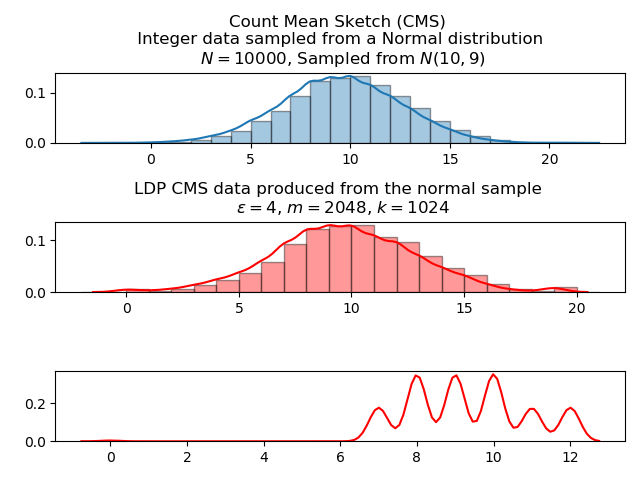
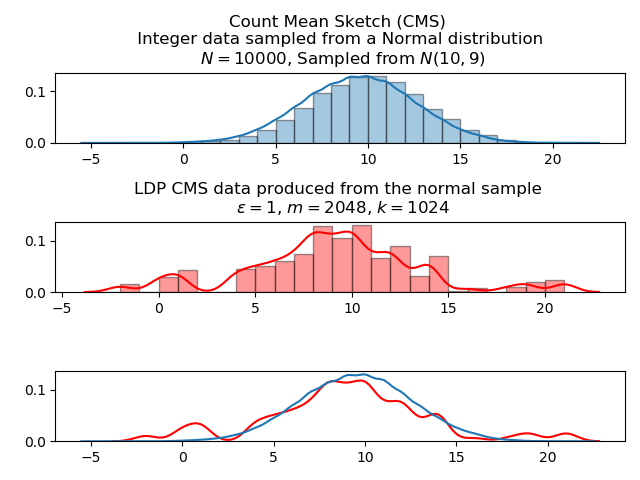
RAPPOR Normal Dist test
Doesn't perform very well :(

diff --git a/simulations/google/rappor_test.py b/simulations/google/rappor_test.py
@@ -2,22 +2,34 @@ from algorithms.google_ldp.rappor.server.RAPPORServer import RAPPORServer
 from collections import Counter
 
 import numpy as np
+import seaborn as sns
+import matplotlib.pyplot as plt
 
 # ----------------------------- Parameters for the simulation: -------------------------
 
-num_bloombits = 16
-num_hashes = 2
-num_of_cohorts = 64
-prob_p = 0.50
+num_bloombits = 128 # Max size is 256 bits
+num_hashes = 2 # Recommended to use 2 hashes
+num_of_cohorts =  32 # Max cohorts is 64
+
+# Guarantees slightly over epsilon = 1 for privacy
+prob_p = 0.5
 prob_q = 0.75
 prob_f = 0
 
-n = 1000000
-zipf_param = 1.3
+n = 100000
+
+# Normal Dist Parameters
+mu = 50
+sd = 10
+
 
 # ----------------------------- Generating Test Data for the Simulation: ----------------
 
-data = np.random.zipf(zipf_param, n).astype(int)
+data = np.random.normal(mu,sd,n).astype(int)
+bins = np.arange(start=min(data), stop = max(data) + 1)
+
+print(dict(Counter(data)))
+fig, axs = plt.subplots(2)
 
 # ---------------------------------------------------------------------------------------
 
@@ -28,9 +40,32 @@ for i in range(0, n):
     rappor_server.add_report(rappor_client.generate_report(str(data[i])))
 
 print("\n")
-print(Counter(data))
 
-hist = rappor_server.generate_freq_hist(["1", "3"])
+hist = rappor_server.generate_freq_hist(list(map(lambda x: str(x), bins)))
 print(hist)
 
-# ---------------------------------------------------------------------------------------
+ldp_data = np.zeros(len(bins))
+for row in hist.values.tolist():
+    ldp_data = np.append(ldp_data, [int(row[0])]*int(row[1]))
+
+print(ldp_data)
+
+# -------------------- Plotting the data --------------------
+print("Plotting data...")
+
+# Plotting a distplot of our integer data sampled from a normal dist
+sns.distplot(data, bins=bins, ax=axs[0], hist_kws={'ec': "black"})
+axs[0].set_title("RAPPOR")
+
+# Plotting a distplot of the data produced from the CMS algorithm
+sns.distplot(ldp_data, bins=bins, ax=axs[0], color='r', hist_kws={'ec': "black"})
+axs[1].set_title("RAPPOR")
+
+# Plotting both kde's from above for comparison
+sns.distplot(ldp_data, hist=False, bins=bins, ax=axs[1], color='r')
+sns.distplot(data, bins=bins, hist=False, ax=axs[1])
+
+fig.tight_layout()
+plt.savefig("rappor.png")
+plt.show()
+print("Plot Displayed !")
